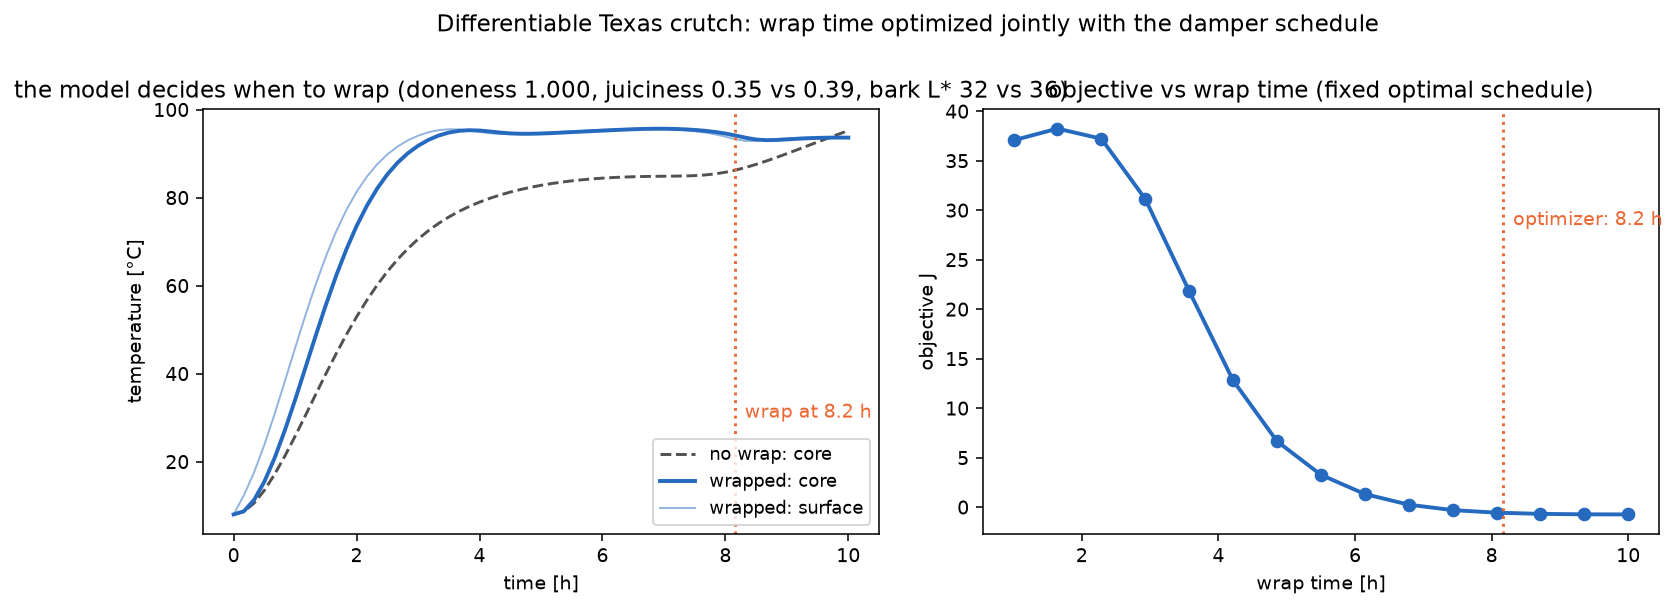
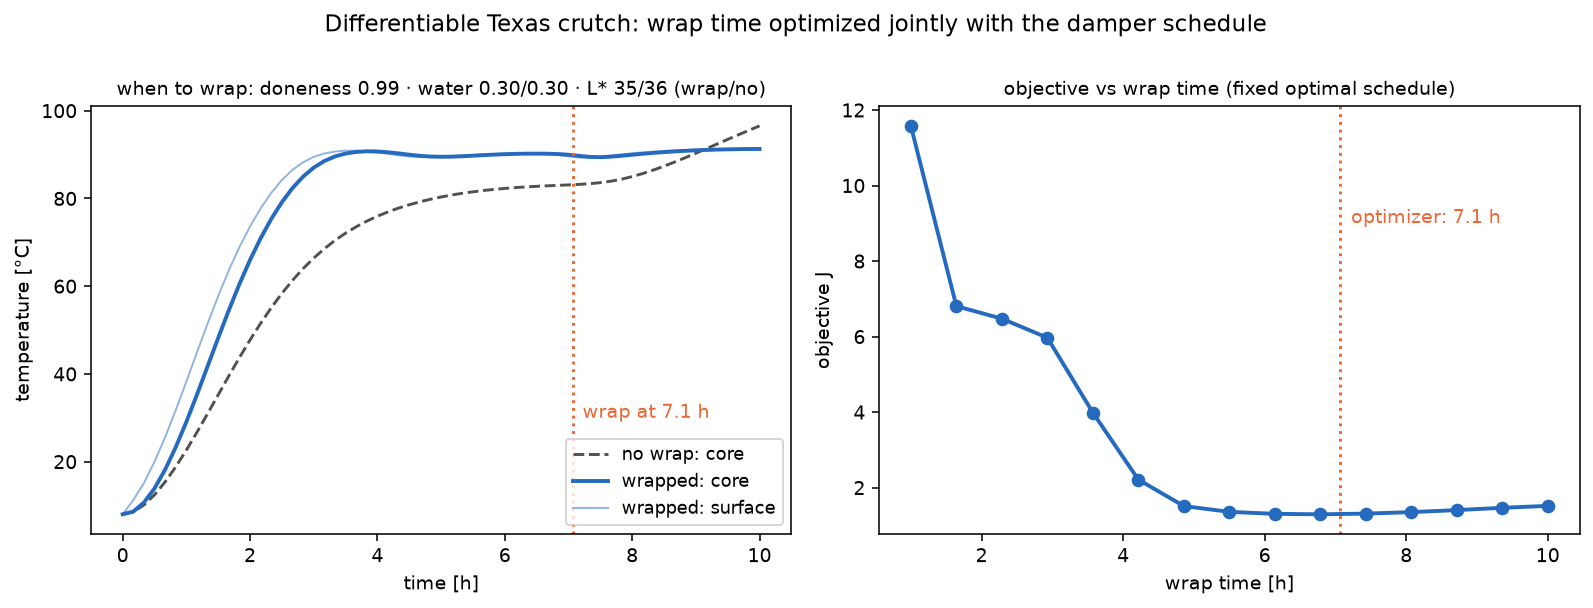
Wraptime demo under final physics: optimal wrap 7.1h on the 10h horizon
Consistent with fullplan: on a short fixed horizon the wrap comes late
(~70% through), on the 17h quality-optimal cook it comes at 3.5h (~20%)
— the crutch moment scales with how long the cook can afford to pay
evaporative losses. J vs t_wrap is broad-flat 5.5-7.5h. Figure titles
shortened (collision) and water-retention no longer labeled juiciness.

diff --git a/scripts/run_wraptime.py b/scripts/run_wraptime.py
@@ -228,14 +228,15 @@ def main():
         color=ORANGE,
         fontsize=10,
     )
-    ax.set(
-        xlabel="time [h]",
-        ylabel="temperature [°C]",
-        title=f"the model decides when to wrap "
-        f"(doneness {m_w['doneness']:.3f}, juiciness "
-        f"{m_w['w_retained']:.2f} vs {m0['w_retained']:.2f}, "
-        f"bark L* {m_w['l_star_end']:.0f} vs {m0['l_star_end']:.0f})",
+    # short title + explicit fontsize: the long f-string collided with the
+    # right panel's title; w_retained is WATER-only (not juiciness)
+    ax.set_title(
+        f"when to wrap: doneness {m_w['doneness']:.2f} · water "
+        f"{m_w['w_retained']:.2f}/{m0['w_retained']:.2f} · "
+        f"L* {m_w['l_star_end']:.0f}/{m0['l_star_end']:.0f} (wrap/no)",
+        fontsize=10,
     )
+    ax.set(xlabel="time [h]", ylabel="temperature [°C]")
     ax.legend(fontsize=9, loc="lower right")
 
     ax = axes[1]
@@ -250,11 +251,8 @@ def main():
         color=ORANGE,
         fontsize=10,
     )
-    ax.set(
-        xlabel="wrap time [h]",
-        ylabel="objective J",
-        title="objective vs wrap time (fixed optimal schedule)",
-    )
+    ax.set_title("objective vs wrap time (fixed optimal schedule)", fontsize=10)
+    ax.set(xlabel="wrap time [h]", ylabel="objective J")
 
     fig.suptitle(
         "Differentiable Texas crutch: wrap time optimized jointly "
